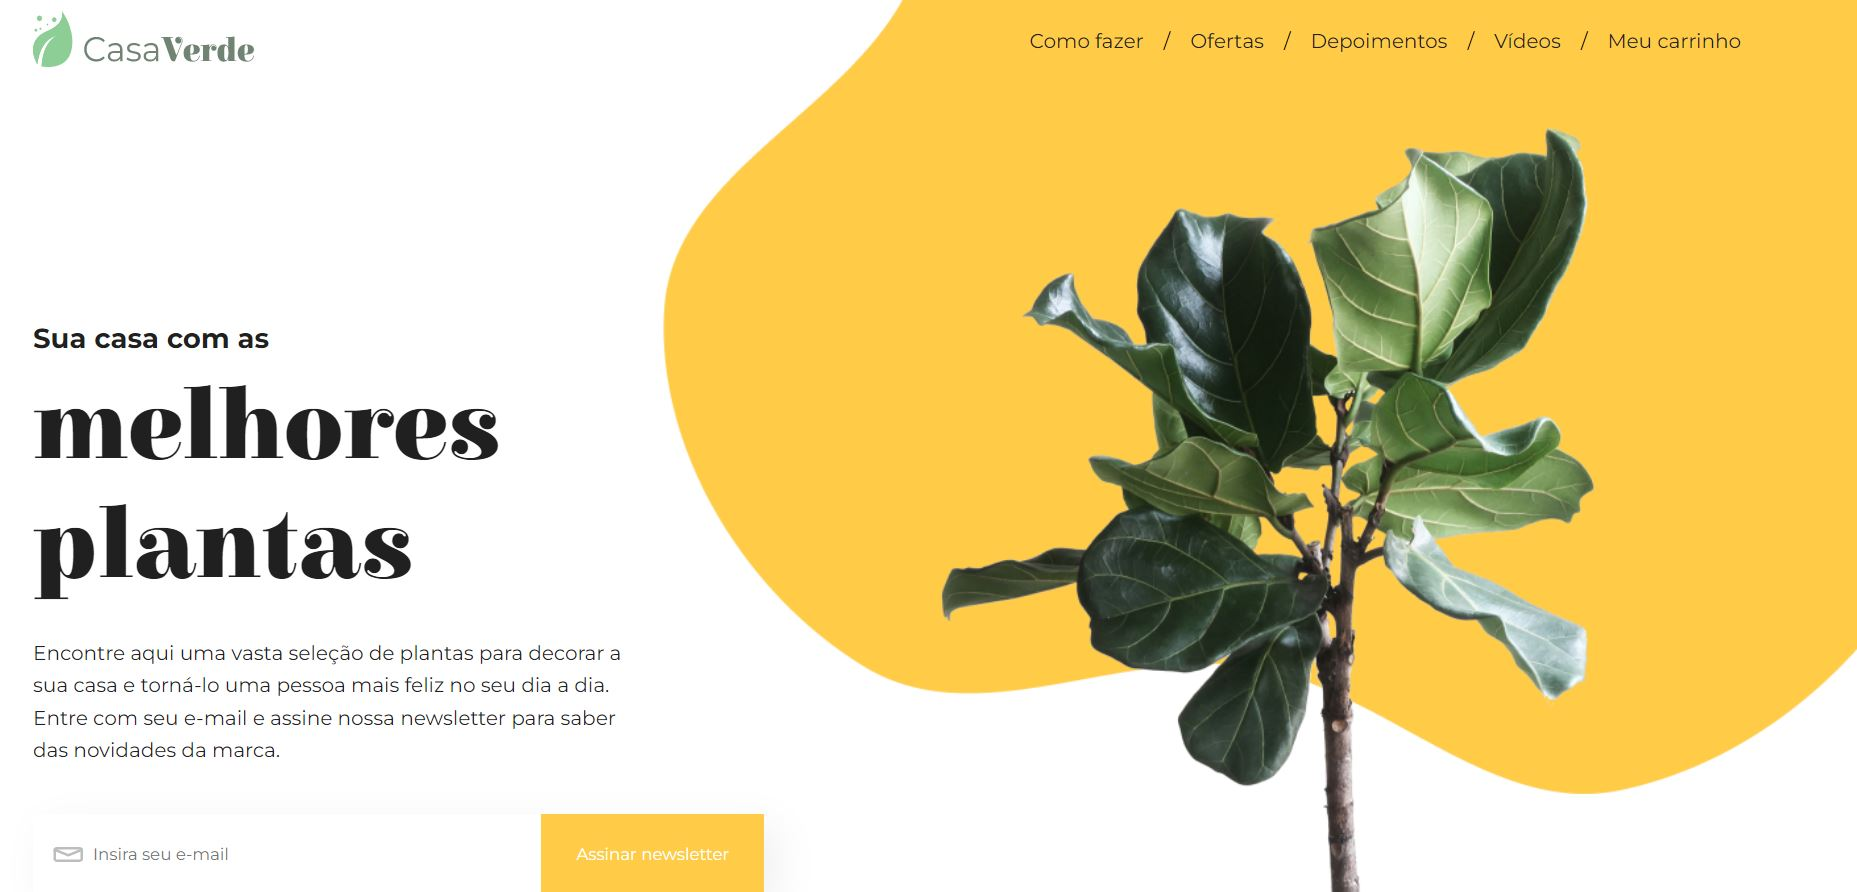
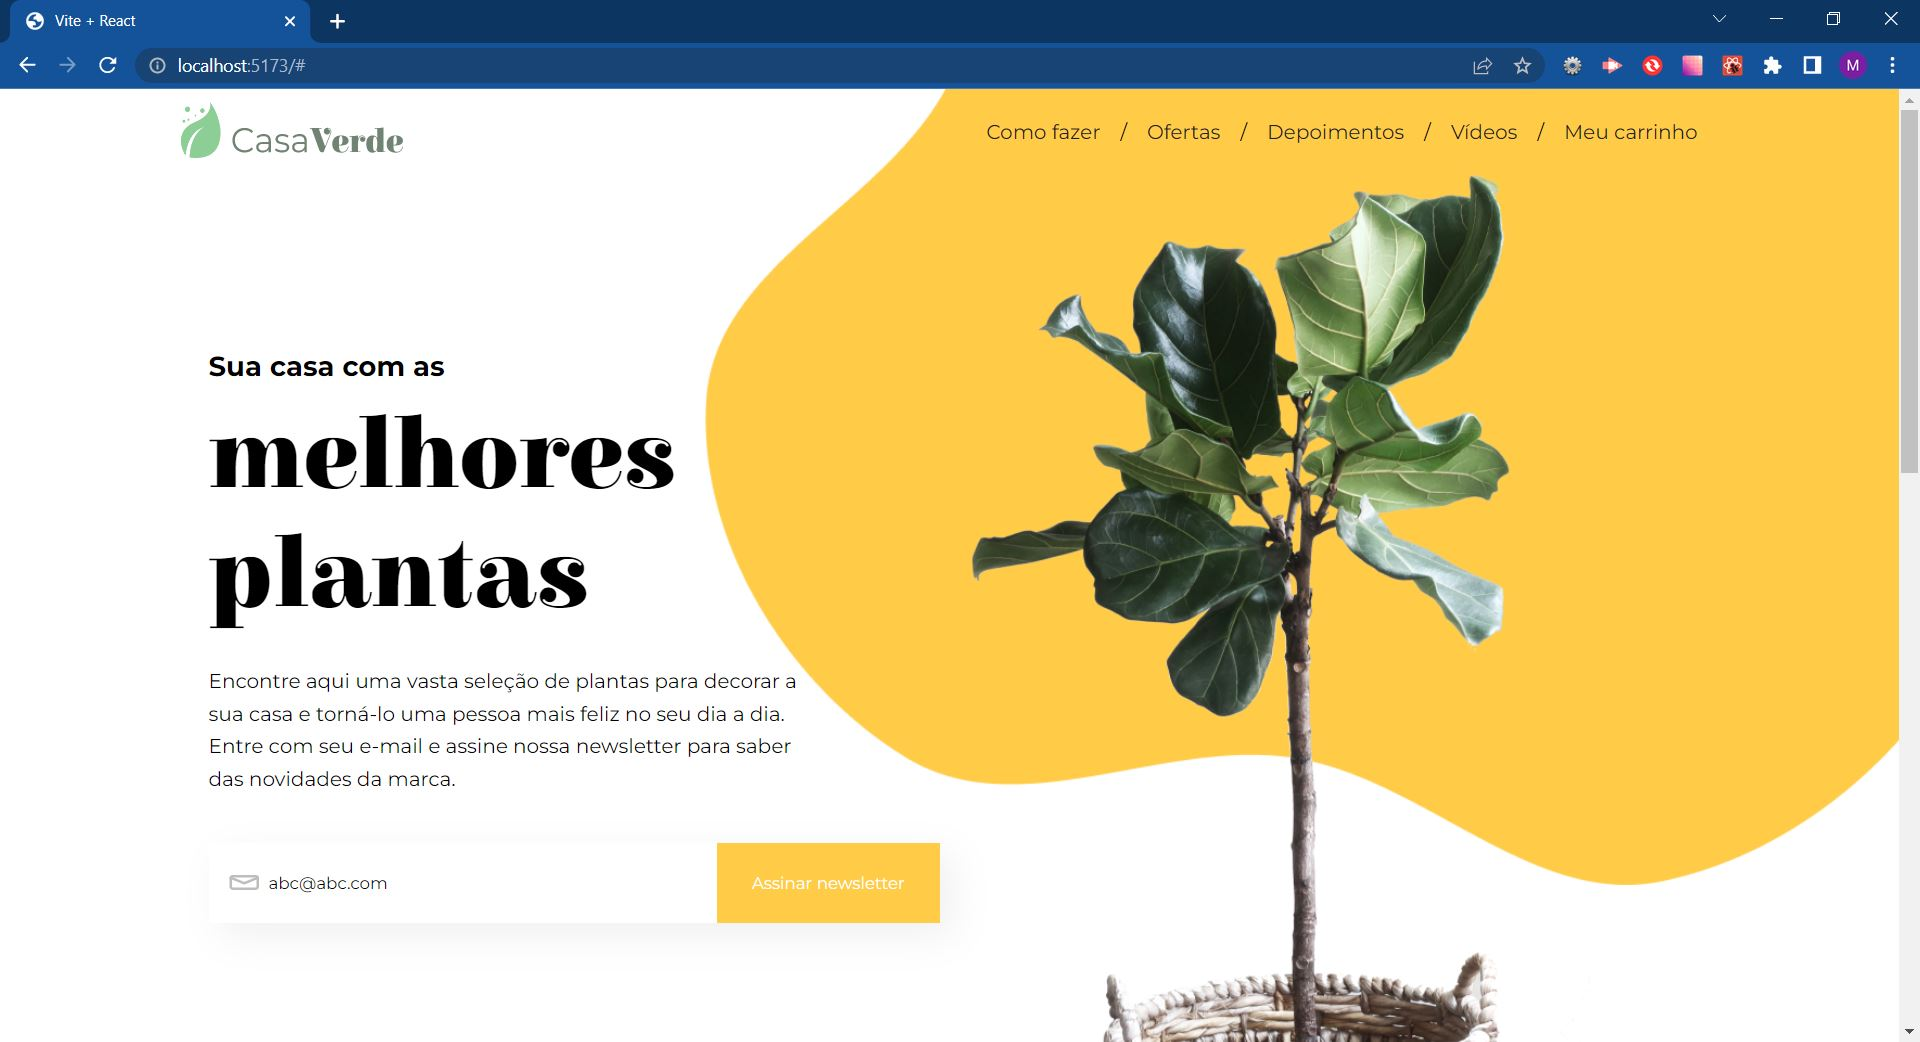
home page layout feito

diff --git a/src/assets/components/AssinaturaNewsletter/AssinaturaNewsletter.module.scss b/src/assets/components/AssinaturaNewsletter/AssinaturaNewsletter.module.scss
@@ -4,17 +4,17 @@
   display: flex;
   flex-direction: column;
   margin: 0 auto;
-  padding: 150px 0;
+  padding: 150px 0 150px 90px;
   background-image: url('../../../../public/hero.png');
   background-repeat: no-repeat;
-  background-position-x: 540px;
-  background-position-y: -70px;
-  background-size: 55%;
+  background-position-x: 75%;
+  background-position-y: 100%;
+  background-size: 50%;
       
      
   .article{
     position: relative;
-    width: 585px;
+    max-width: 585px;
 
     h5{
       font-size: 22px;

diff --git a/src/assets/components/Ofertas/Ofertas.module.scss b/src/assets/components/Ofertas/Ofertas.module.scss
@@ -42,6 +42,7 @@
 
     &__texto{
       padding: 20px 0 28px 180px;
+      text-align: left;
       h3{      
         font-family: 'Elsie Swash Caps', cursive;
         font-weight: 900;
@@ -55,7 +56,7 @@
         font-weight: 400;
         padding: 10px 0;
       }
-      span{      
+      a{      
         font-weight: 400;
         font-size: 16px;
         line-height: 20px;

diff --git a/src/assets/components/Ofertas/index.jsx b/src/assets/components/Ofertas/index.jsx
@@ -13,7 +13,7 @@ export default function Ofertas() {
             <div className={styles.cards__card__texto}>
               <h3>{oferta.nome}</h3>
               <h6>R$ 20,00</h6>
-              <span>Comprar</span>
+              <a href="#">Comprar</a>
             </div>
           </div>
         ))}

diff --git a/src/index.css b/src/index.css
@@ -16,15 +16,17 @@ body {
   background-position: right top;
 }
 
-a,
+button {
+    cursor: pointer;
+}
+
+/* a,
 button,
 input {
     transition: .3s ease-in-out;
 }
 
-button {
-    cursor: pointer;
-}
+
 
 
 a:hover,
@@ -32,4 +34,4 @@ a:focus,
 button:hover,
 button:focus {
     opacity: .5;
-}
+} */

diff --git a/src/assets/components/AssinaturaNewsletter/index.jsx b/src/assets/components/AssinaturaNewsletter/index.jsx
@@ -30,7 +30,7 @@ export default function AssinaturaNewsletter() {
     setError(null);
 
     if (emailEhValido(email)) {
-      alert('email é valido');
+      alert('email cadastrado com sucesso');
     } else {
       setError('email é inválido');
     }

diff --git a/src/assets/components/Menu/Menu.module.scss b/src/assets/components/Menu/Menu.module.scss
@@ -4,8 +4,8 @@
   display: flex;
   align-items: center;
   justify-content: space-between;
-  margin-top: 10px;
-  width: 100%;
+  margin: 10px auto 0 auto;
+  width: 90%;
   flex-wrap: wrap;
 
   &__navbar{
